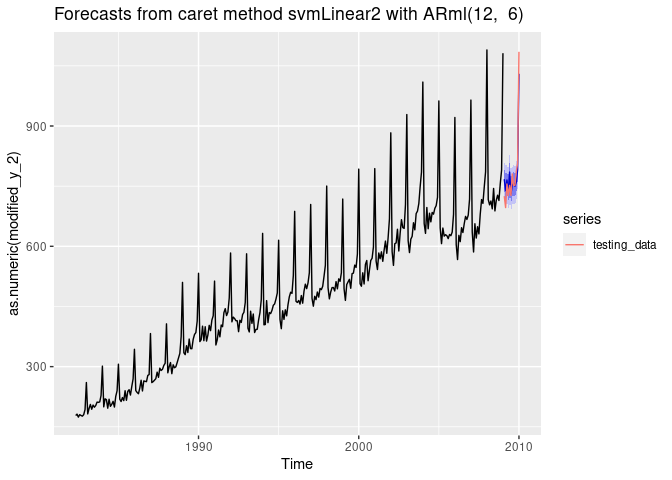
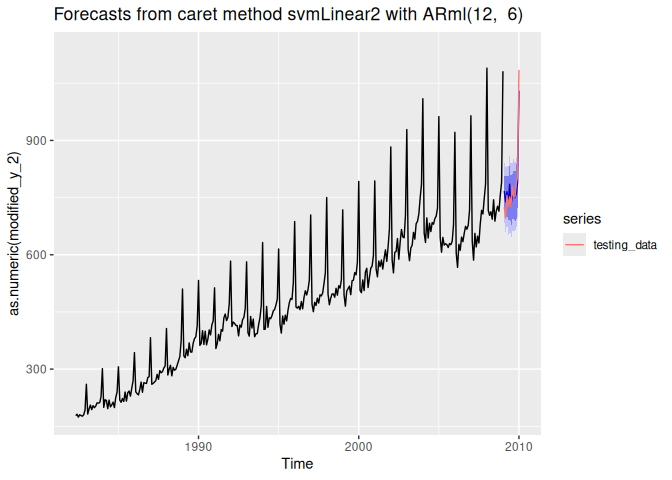
[Docs] Readme update

diff --git a/README.md b/README.md
@@ -4,10 +4,22 @@
 # caretForecast
 
 <!-- badges: start -->
+
 <!-- badges: end -->
 
 caretForecast aspires to equip users with the means of using machine
 learning algorithms for time series data forecasting.
+
+## Features
+
+- Use any regression model from the caret package for time series
+  forecasting
+- Automatic feature engineering with lagged values and Fourier terms for
+  seasonality
+- **Horizon-specific conformal prediction intervals** with proper
+  out-of-sample calibration
+- Support for external regressors (promotions, holidays, etc.)
+- Compatible with hierarchical/grouped time series via the hts package
 
 ## Installation
 
@@ -53,7 +65,7 @@ training_data <- dtlist$train
 
 testing_data <- dtlist$test
 
-fit <- ARml(training_data, max_lag = 12, caret_method = "glmboost", 
+fit <- ARml(training_data, max_lag = 12, caret_method = "cubist", 
             verbose = FALSE)
 #> initial_window = NULL. Setting initial_window = 301
 #> Loading required package: ggplot2
@@ -62,12 +74,12 @@ fit <- ARml(training_data, max_lag = 12, caret_method = "glmboost",
 forecast(fit, h = length(testing_data), level = c(80,95))-> fc
 
 accuracy(fc, testing_data)
-#>                        ME     RMSE      MAE       MPE     MAPE     MASE
-#> Training set 1.899361e-14 16.55233 11.98019 -1.132477 6.137096 0.777379
-#> Test set     7.472114e+00 21.68302 18.33423  2.780723 5.876433 1.189685
+#>                     ME      RMSE       MAE        MPE     MAPE      MASE
+#> Training set 0.3616104  8.550244  6.349603 -0.0727533 3.243307 0.4120175
+#> Test set     2.4886342 15.770333 11.247363  1.1450840 3.448918 0.7298268
 #>                   ACF1 Theil's U
-#> Training set 0.6181425        NA
-#> Test set     0.3849258 0.8078558
+#> Training set 0.2754280        NA
+#> Test set     0.3447055 0.5827831
 
 
 autoplot(fc) + 
@@ -276,17 +288,44 @@ get_var_imp(fc)
 
 <img src="man/figures/README-example6-2.png" width="100%" />
 
-# Forecasting Hierarchical or grouped time series
+## Conformal Prediction Intervals
+
+As of version 0.1.1, caretForecast implements **horizon-specific
+conformal prediction intervals**. This approach provides properly
+calibrated prediction intervals that naturally widen with forecast
+horizon (trumpet shape), addressing a common limitation of ML-based
+forecasting methods.
+
+### How it works
+
+When `calibrate = TRUE` (the default), `ARml()` performs rolling-origin
+calibration using out-of-sample forecasts to compute nonconformity
+scores for each forecast horizon. This ensures that the prediction
+intervals have the correct coverage probability.
+
+### Key parameters
+
+- `calibrate`: Logical. If TRUE (default), performs horizon-specific
+  calibration for conformal prediction intervals
+- `calibration_horizon`: Maximum forecast horizon for calibration.
+  Defaults to `2 * frequency(y)` for seasonal data or 10 for
+  non-seasonal data
+- `n_cal_windows`: Number of rolling windows for calibration.
+  Automatically determined based on data length (max 50)
+
+### Example with calibrated intervals
 
 ``` r
-library(hts)
+# Fit model with conformal calibration (default)
+fit <- ARml(AirPassengers, max_lag = 12, caret_method = "ridge",
+            verbose = FALSE, calibrate = TRUE)
+#> initial_window = NULL. Setting initial_window = 124
 
-data("htseg1", package = "hts")
+# Forecast with prediction intervals
+fc <- forecast(fit, h = 24, level = c(80, 95))
 
-fc <- forecast(htseg1, h = 4, FUN = caretForecast::ARml, 
-               caret_method = "ridge", verbose = FALSE)
-
-plot(fc)
+# The intervals widen appropriately with forecast horizon
+autoplot(fc)
 ```
 
-<img src="man/figures/README-example7-1.png" width="100%" />
+<img src="man/figures/README-example_conformal-1.png" width="100%" />
